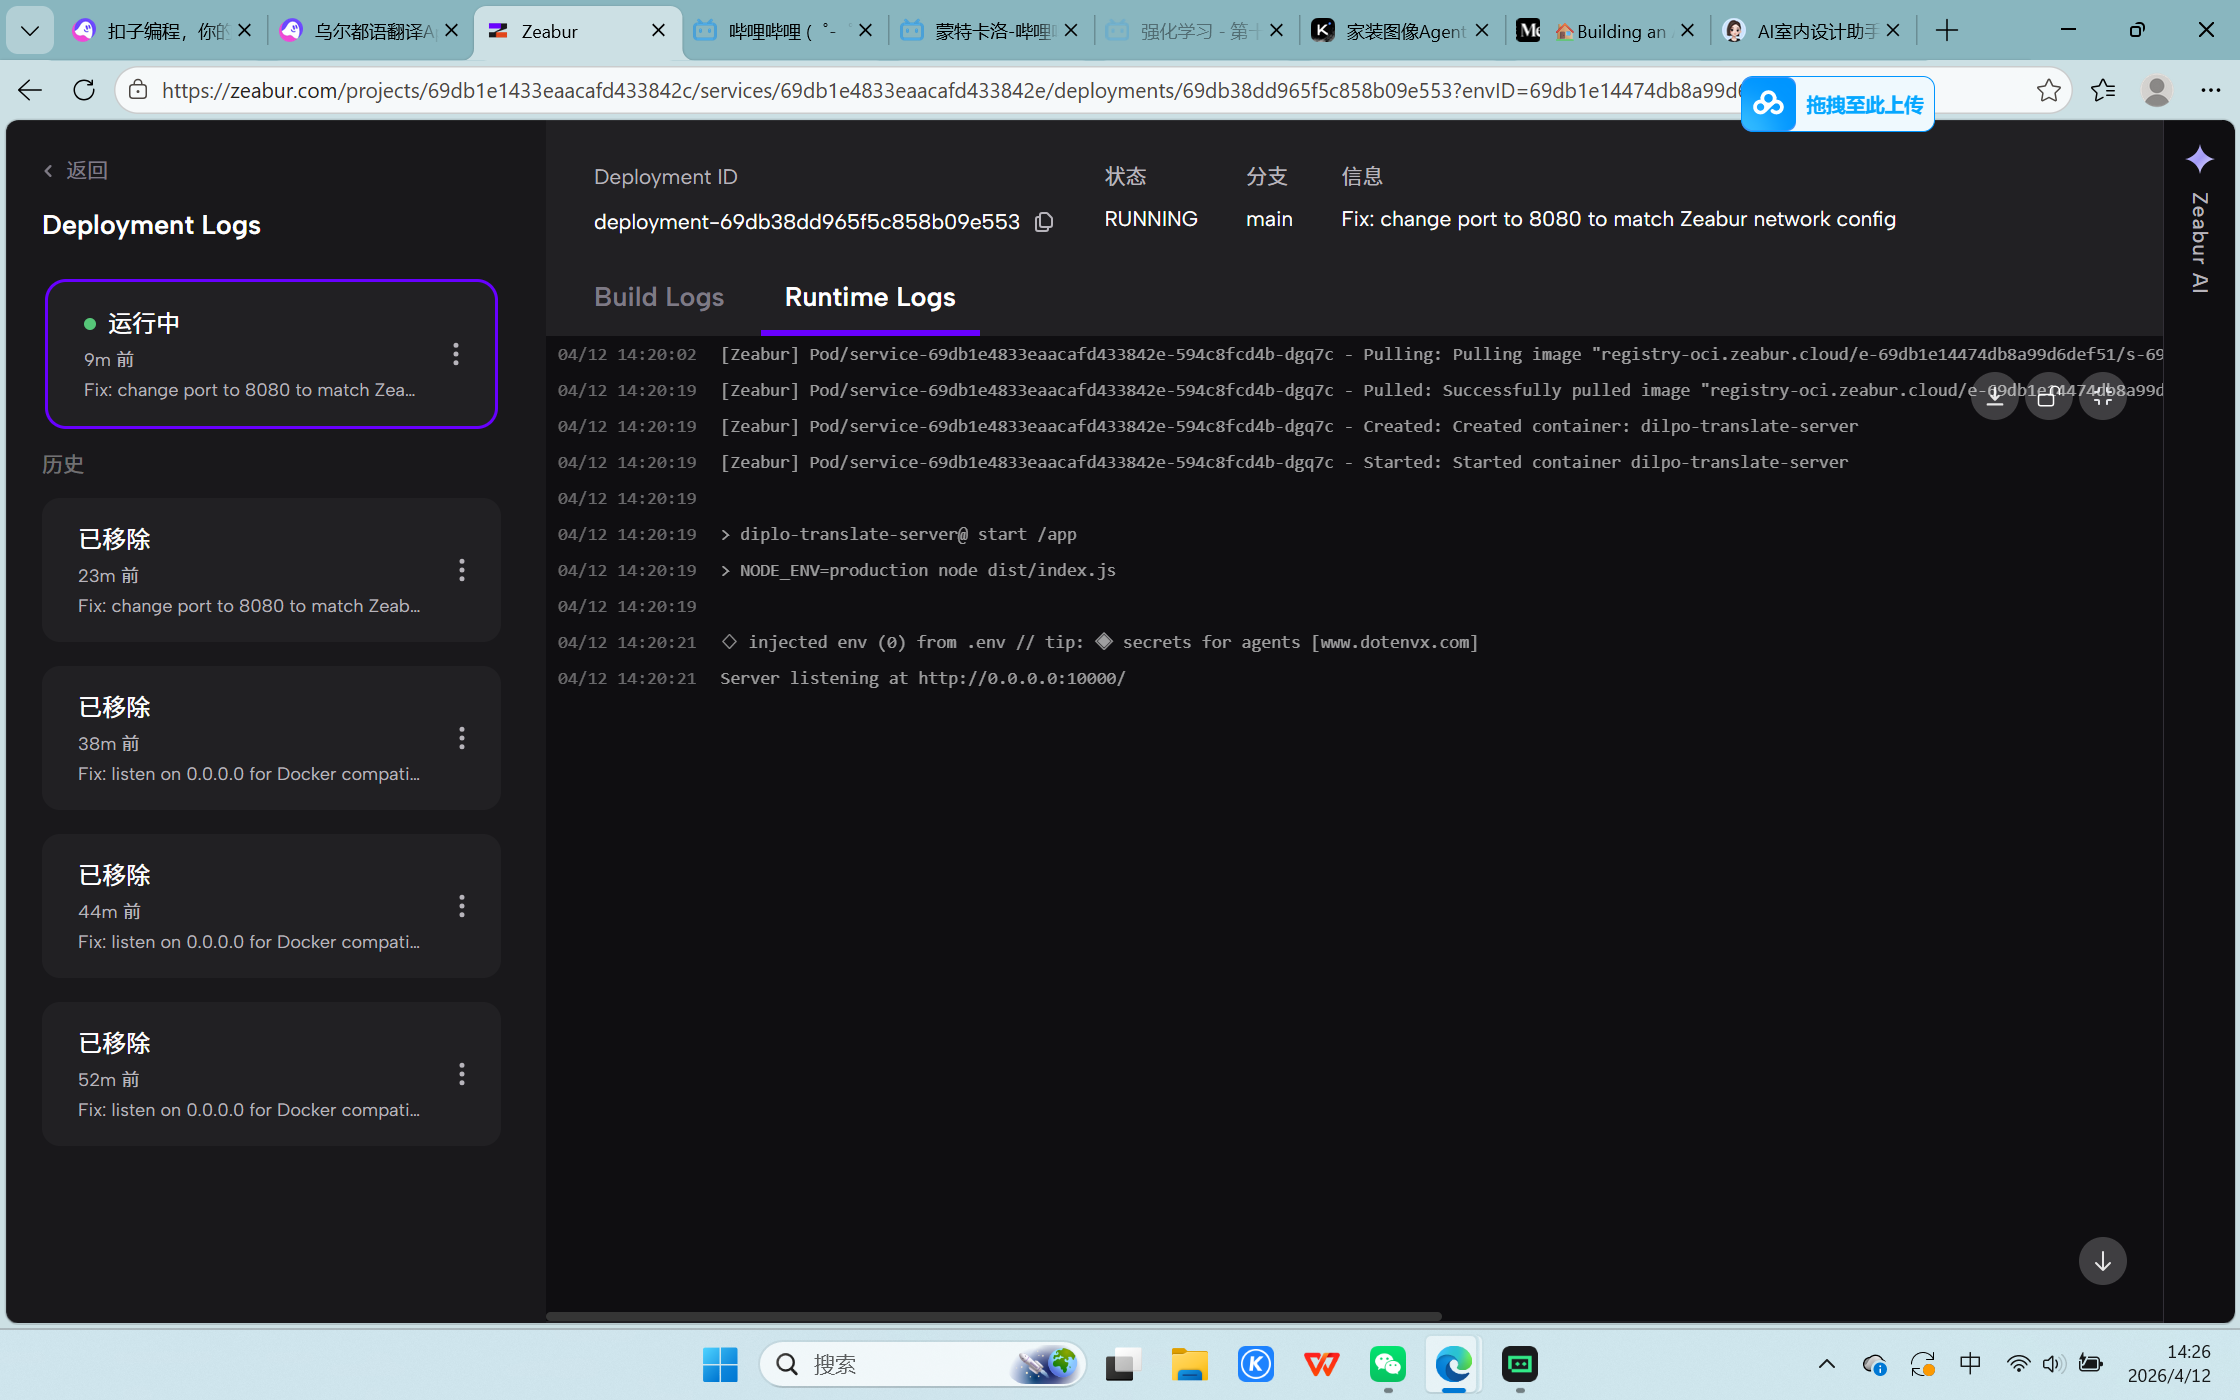
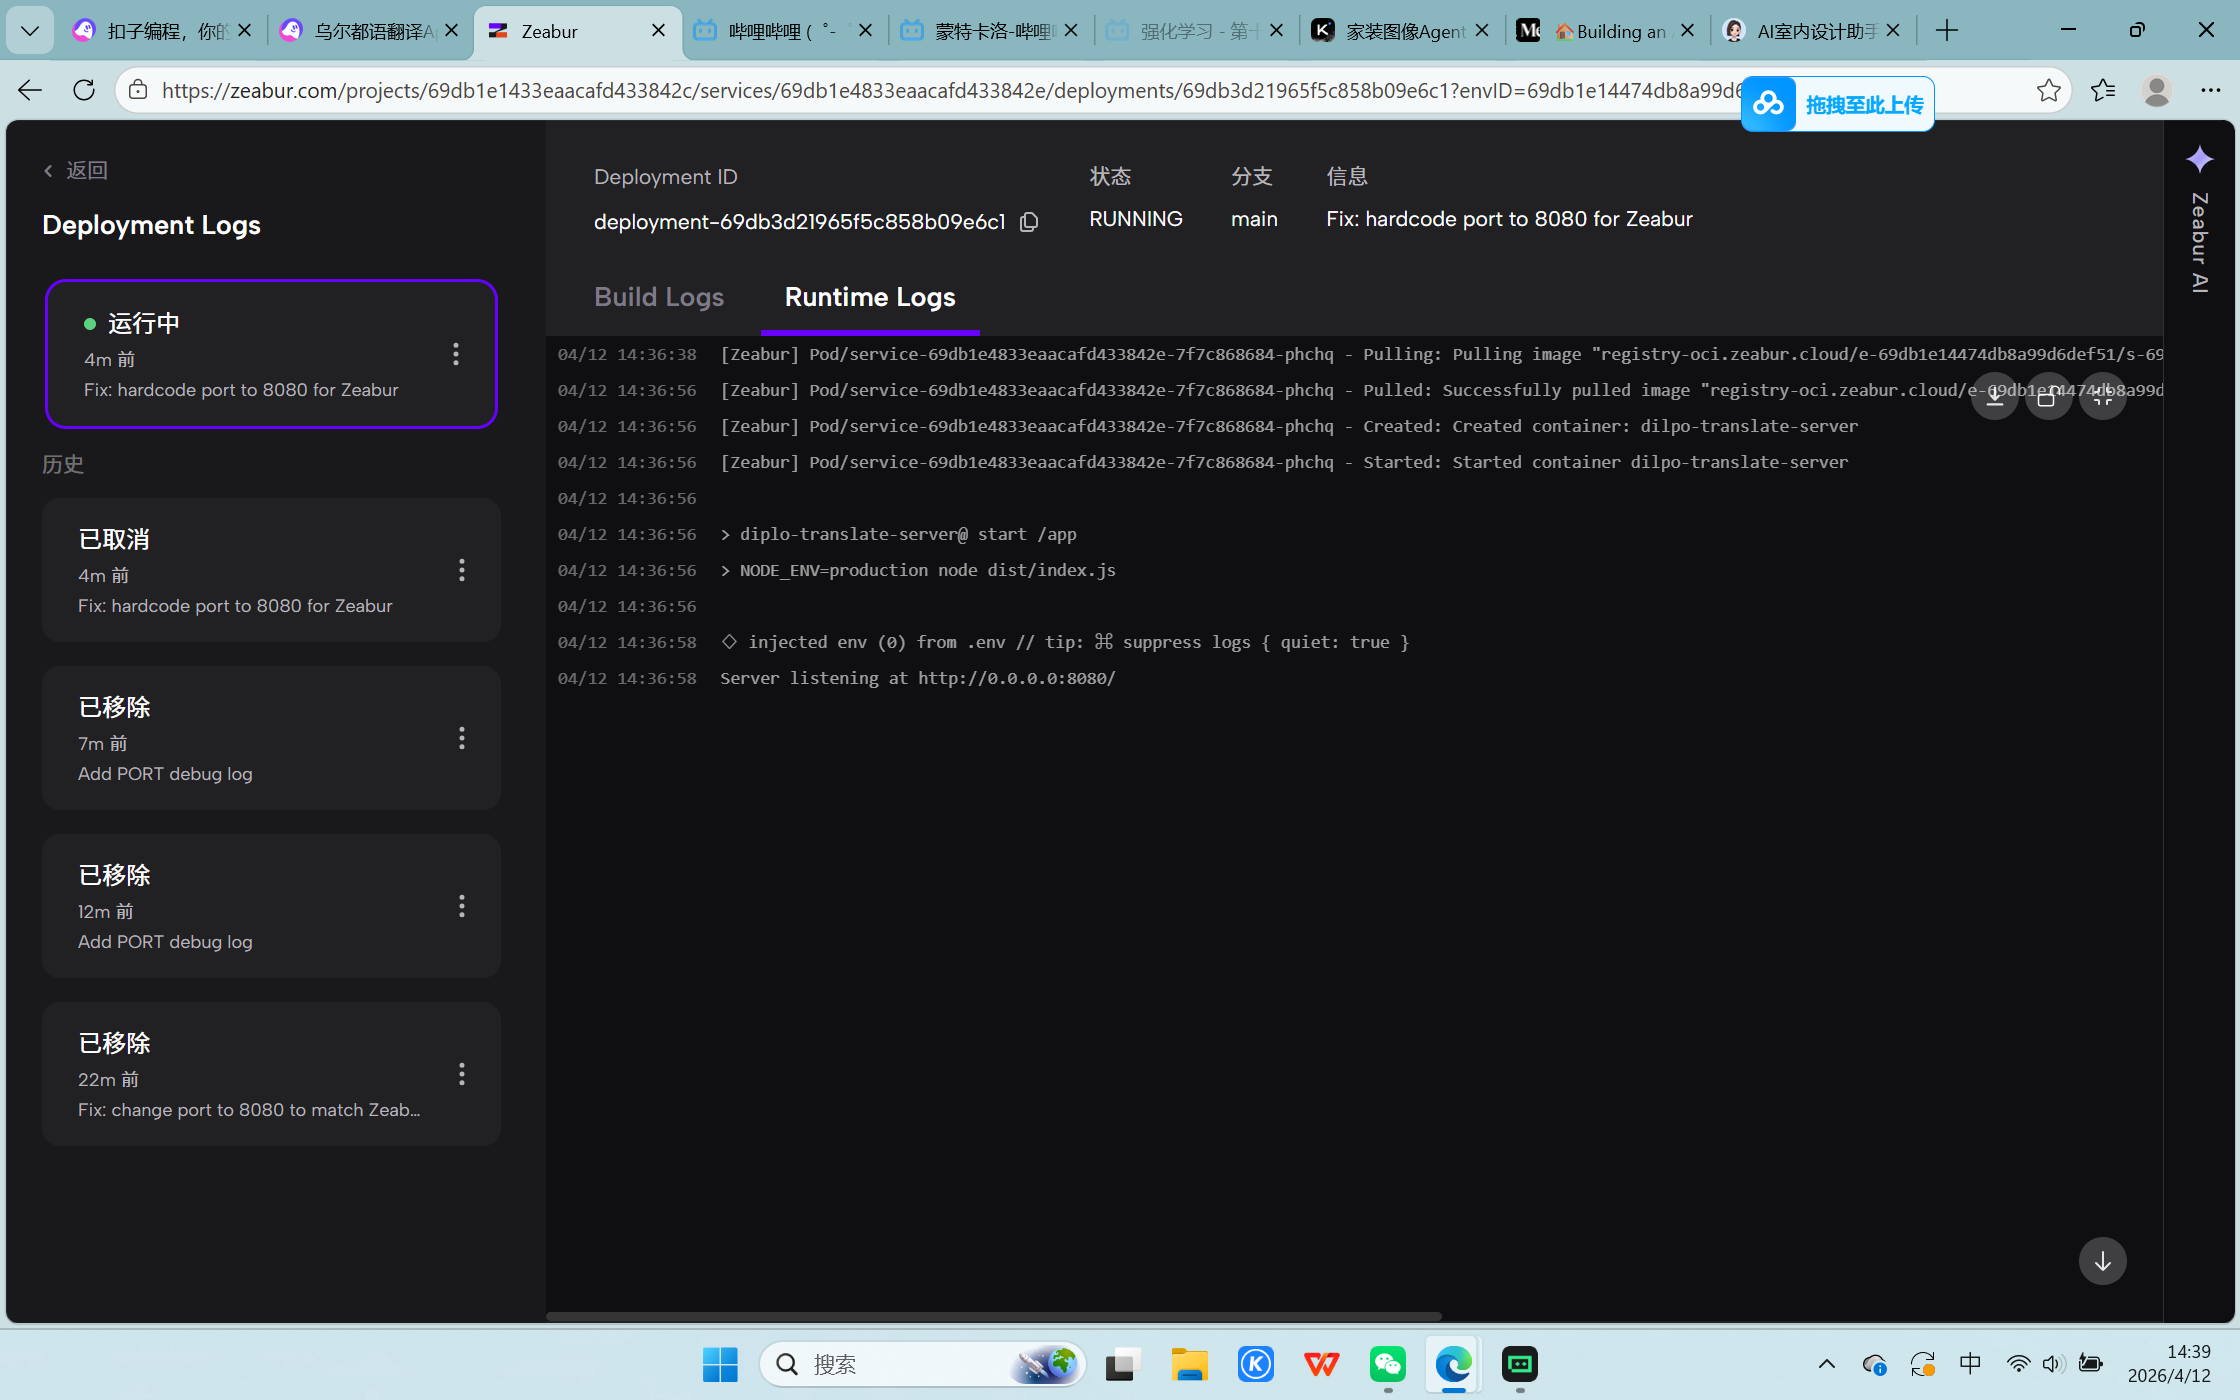
fix: hardcode port to 8080 for Zeabur compatibility

diff --git a/server/src/index.ts b/server/src/index.ts
@@ -8,8 +8,8 @@ import audioRouter from "./routes/audio";
 import learningRouter from "./routes/learning";
 
 const app = express();
-const port = process.env.PORT || 8081;
-console.log(`PORT env: ${process.env.PORT}`);
+// Zeabur 期望服务监听 8080 端口
+const port = 8080;
 
 // Middleware
 app.use(cors());
